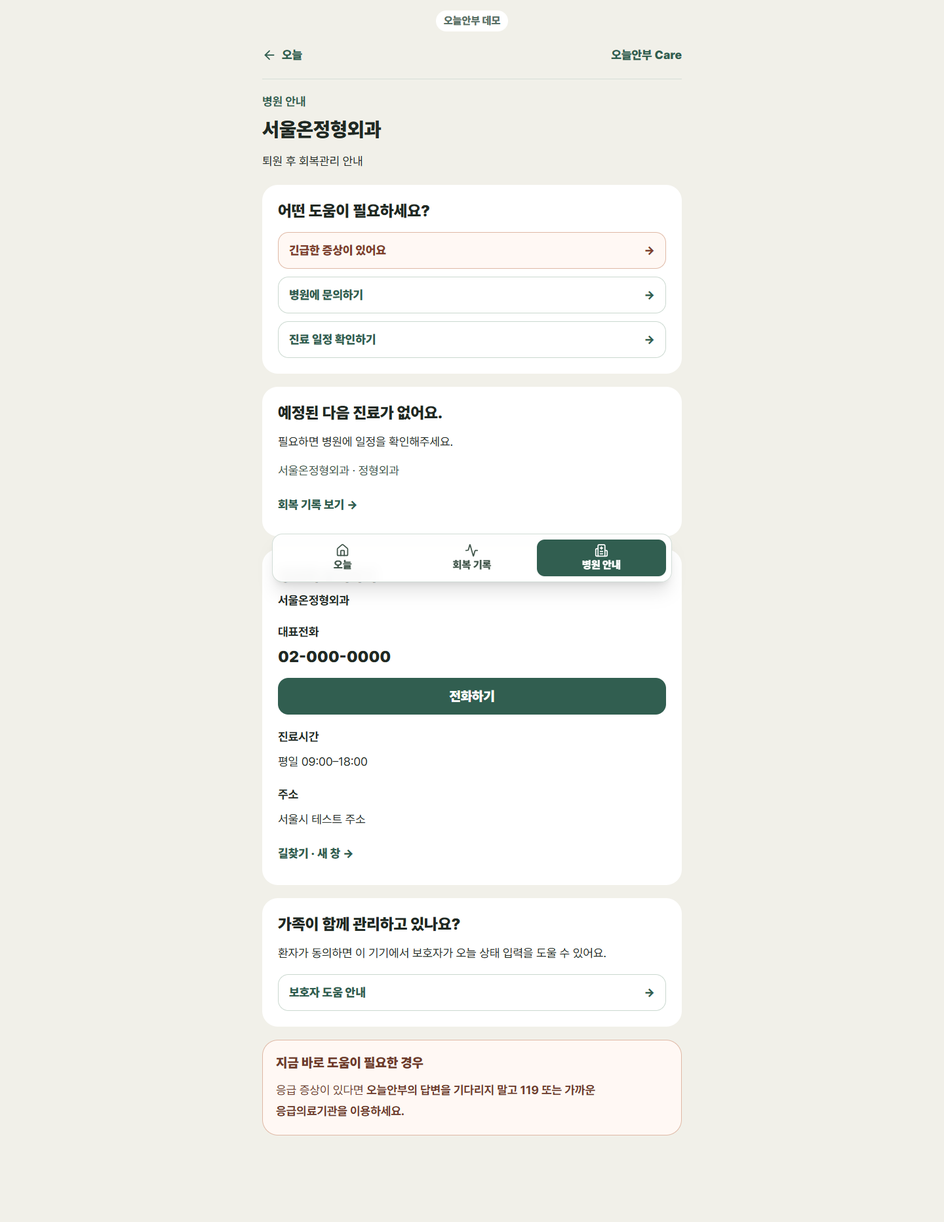
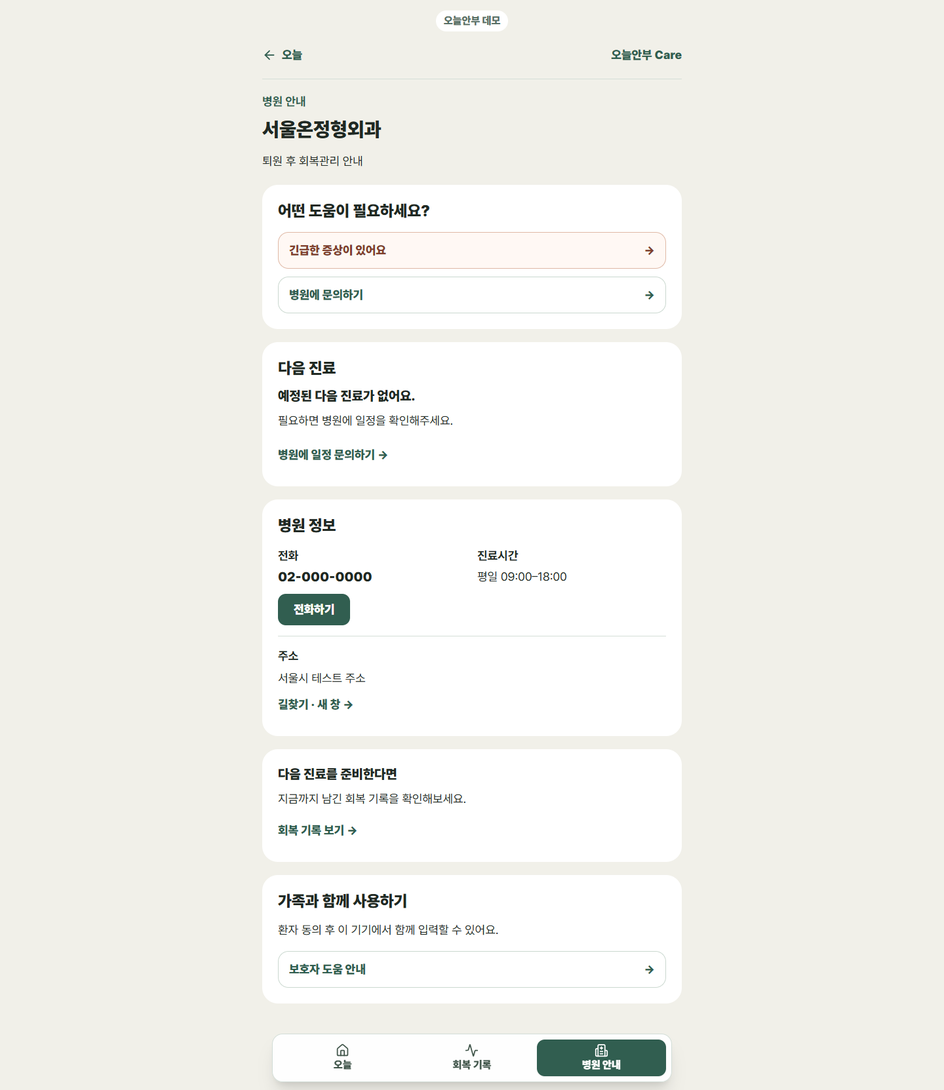
Update Site source

diff --git a/src/components/hospital-mvp.tsx b/src/components/hospital-mvp.tsx
@@ -1,5 +1,6 @@
 "use client";
 import Link from "next/link";
+import {HospitalContactSettings} from "@/components/hospital-contact-settings";
 import {useEffect,useMemo,useState} from "react";
 import {Activity,ArrowLeft,BarChart3,Bell,CalendarClock,Check,CheckCircle2,ChevronRight,ClipboardCheck,HeartPulse,Menu,Search,Settings,ShieldCheck,Stethoscope,UserCog,Users,X} from "lucide-react";
 import {AccessGuard} from "@/components/access-guard";
@@ -35,7 +36,7 @@ function Workspace({session,demo=false}:{session:HospitalSession;demo?:boolean})
  const routeParams=new URLSearchParams();if(view!=="home")routeParams.set("view",view);if(filter!=="all")routeParams.set("status",filter);if(search)routeParams.set("q",search);if(assignment!=="all")routeParams.set("assignment",assignment);if(surgery!=="all")routeParams.set("surgery",surgery);
  const choose=(v:View,f:Filter="all")=>{const q=new URLSearchParams();if(v!=="home")q.set("view",v);if(f!=="all")q.set("status",f);history.pushState(history.state,"",dashboardHref+(q.size?"?"+q:""));setView(v);setFilter(f);setSearch("");setSurgery("all");setAssignment("all");setMobile(false);setGlobalSearch(false);window.scrollTo(0,0)},notify=(m:string)=>{setToast(m);setTimeout(()=>setToast(""),2200)},persist=(s:CareState)=>{setState(s);(demo?savePublicDemoCareState:saveCareState)(s)},items=nav[activeRole]||nav.nurse,label=items.find(x=>x.id===view)?.label||"병원 홈",returnTo=encodeURIComponent(dashboardHref+(routeParams.size?"?"+routeParams:""));
 
- return <main className="min-h-screen bg-[#F4F6F4] text-[#18251F] lg:flex"><aside className={`${mobile?"fixed inset-y-0 left-0 z-50 block":"hidden"} w-[264px] shrink-0 bg-[#19372E] p-5 text-white lg:sticky lg:top-0 lg:block lg:h-screen`}><div className="flex justify-between"><button onClick={()=>choose("home")} className="flex min-h-11 items-center gap-2 text-lg font-black"><span className="grid size-9 place-items-center rounded-xl bg-[#4D826F]"><HeartPulse size={20}/></span>오늘안부 Care</button><button aria-label="메뉴 닫기" onClick={()=>setMobile(false)} className="lg:hidden"><X/></button></div><div className="mt-6 border-y border-white/10 py-4"><p className="font-black">서울온정형외과</p><p className="mt-2 text-sm font-bold text-emerald-100">{roles[role].name} · {roles[role].label}</p></div><p className="mb-2 mt-5 px-3 text-[11px] font-black tracking-[.14em] text-white/40">{activeRole==="doctor"?"CLINICAL":activeRole==="nurse"?"CARE":"MANAGEMENT"}</p><nav className="space-y-1">{items.map(item=>{const Icon=item.icon;return <button key={item.id} onClick={()=>choose(item.id,item.id==="followup"?"followup":item.id==="escalations"?"doctor":"all")} aria-current={view===item.id?"page":undefined} className={`flex min-h-12 w-full items-center gap-3 rounded-xl px-3 text-left text-[15px] font-black focus-visible:ring-2 focus-visible:ring-white ${view===item.id?"bg-white text-[#244B3D]":"text-white/75 hover:bg-white/10 hover:text-white"}`}><Icon size={19}/>{item.label}</button>})}</nav>{demo?<button onClick={()=>{setState(resetPublicDemoCareState());notify("데모 데이터를 초기화했습니다.")}} className="absolute bottom-5 left-5 right-5 min-h-11 rounded-xl border border-white/20 text-sm font-bold">데모 데이터 초기화</button>:null}</aside>{mobile?<button aria-label="메뉴 배경 닫기" className="fixed inset-0 z-40 bg-black/30 lg:hidden" onClick={()=>setMobile(false)}/>:null}<div className="min-w-0 flex-1"><header className="sticky top-0 z-30 border-b bg-white/95 px-4 backdrop-blur lg:px-8"><div className="flex min-h-[72px] items-center justify-between gap-2"><div className="flex min-w-0 items-center gap-2"><button aria-label="메뉴 열기" onClick={()=>setMobile(true)} className="grid size-11 place-items-center rounded-xl border lg:hidden"><Menu/></button>{view!=="home"?<button onClick={()=>choose("home")} className="hidden size-11 place-items-center rounded-xl border md:grid" aria-label="이전 화면"><ArrowLeft size={19}/></button>:null}<nav className="truncate text-sm font-bold text-[#607068]"><button onClick={()=>choose("home")}>병원 홈</button>{view!=="home"?<><span className="px-2">›</span><b className="text-[#18251F]">{label}</b></>:null}</nav></div><div className="flex items-center gap-2"><button onClick={()=>setGlobalSearch(v=>!v)} className="grid size-11 place-items-center rounded-xl border" aria-label="통합 검색"><Search size={19}/></button><div className="relative"><button onClick={()=>setNotice(v=>!v)} className="relative grid size-11 place-items-center rounded-xl border" aria-label="알림"><Bell size={19}/><span className="absolute right-2 top-2 size-2 rounded-full bg-[#C65437]"/></button>{notice?<Notices go={f=>{choose("patients",f);setNotice(false)}} close={()=>setNotice(false)}/>:null}</div><select aria-label="역할 전환" value={role} disabled={!demo} title={demo?"데모 역할 체험":"로그인한 계정의 역할입니다. 권한 변경은 관리자에게 요청하세요."} onChange={e=>{const next=e.target.value as HospitalRole;sessionStorage.setItem("care-demo-role",next);setRole(next);choose("home")}} className="h-11 max-w-[140px] rounded-xl border px-2 font-black"><option value="nurse">간호사</option><option value="doctor">의사</option><option value="owner">병원 경영자</option><option value="hospital_admin">병원 관리자</option><option value="coordinator">코디네이터</option><option value="staff">병원 직원</option></select><div className="hidden text-right xl:block"><b>{roles[role].name} · {roles[role].label}</b><p className="text-xs text-[#62756C]">서울온정형외과</p></div></div></div>{globalSearch?<div className="border-t py-3"><label className="mx-auto flex h-12 max-w-3xl items-center gap-3 rounded-xl bg-[#F3F6F4] px-4"><Search size={19}/><input autoFocus value={search} onChange={e=>{setSearch(e.target.value);setView("patients")}} placeholder="환자명, 내부 ID, 담당자, 수술 종류 검색" className="w-full bg-transparent outline-none"/><button aria-label="닫기" onClick={()=>setGlobalSearch(false)}><X size={18}/></button></label>{search?<div className="mx-auto mt-2 max-w-3xl rounded-xl border bg-white p-2 shadow-lg">{visible.slice(0,4).map(p=><PatientLink key={p.id} p={p} demo={demo} returnTo={returnTo}/>)}</div>:null}</div>:null}</header><div className="mx-auto max-w-[1460px] p-4 pb-24 lg:p-8">{view==="reports"||view==="performance"?<CareReports state={state} hospitalId={session.hospitalId} demo={demo} returnTo={returnTo}/>:view==="patients"&&(activeRole==="owner"||activeRole==="hospital_admin")?<Intro eyebrow="병원 환자목록" title="환자관리" text="검색과 필터로 대상 환자를 확인하세요."/>:activeRole==="owner"||activeRole==="hospital_admin"?<Management role={activeRole} view={view} choose={choose} state={state} patients={patients} hospitalId={session.hospitalId}/>:activeRole==="doctor"?<Doctor state={state} patients={patients} view={view} flow={flow} persist={persist} notify={notify} demo={demo} returnTo={returnTo}/>:<Nurse filter={filter} state={state} patients={patients} visible={visible} view={view} counts={counts} flow={flow} choose={choose} notify={notify} demo={demo} done={done} setDone={setDone} returnTo={returnTo}/>} {(["patients","tasks","followup","escalations","completed"].includes(view))?<><Filters search={search} setSearch={setSearch} surgery={surgery} setSurgery={setSurgery} assignment={assignment} setAssignment={setAssignment} filter={filter} setFilter={setFilter}/><Queue state={state} patients={visible} flow={flow} demo={demo} canAct={hasHospitalPermission(role,"CREATE_CARE_ACTION")} role={activeRole==="doctor"?"doctor":"nurse"} returnTo={returnTo}/></>:null}</div></div>{toast?<div role="status" className="fixed bottom-6 left-1/2 z-[60] -translate-x-1/2 rounded-xl bg-[#172D26] px-5 py-3 font-black text-white">{toast}</div>:null}</main>
+ return <main className="min-h-screen bg-[#F4F6F4] text-[#18251F] lg:flex"><aside className={`${mobile?"fixed inset-y-0 left-0 z-50 block":"hidden"} w-[264px] shrink-0 bg-[#19372E] p-5 text-white lg:sticky lg:top-0 lg:block lg:h-screen`}><div className="flex justify-between"><button onClick={()=>choose("home")} className="flex min-h-11 items-center gap-2 text-lg font-black"><span className="grid size-9 place-items-center rounded-xl bg-[#4D826F]"><HeartPulse size={20}/></span>오늘안부 Care</button><button aria-label="메뉴 닫기" onClick={()=>setMobile(false)} className="lg:hidden"><X/></button></div><div className="mt-6 border-y border-white/10 py-4"><p className="font-black">서울온정형외과</p><p className="mt-2 text-sm font-bold text-emerald-100">{roles[role].name} · {roles[role].label}</p></div><p className="mb-2 mt-5 px-3 text-[11px] font-black tracking-[.14em] text-white/40">{activeRole==="doctor"?"CLINICAL":activeRole==="nurse"?"CARE":"MANAGEMENT"}</p><nav className="space-y-1">{items.map(item=>{const Icon=item.icon;return <button key={item.id} onClick={()=>choose(item.id,item.id==="followup"?"followup":item.id==="escalations"?"doctor":"all")} aria-current={view===item.id?"page":undefined} className={`flex min-h-12 w-full items-center gap-3 rounded-xl px-3 text-left text-[15px] font-black focus-visible:ring-2 focus-visible:ring-white ${view===item.id?"bg-white text-[#244B3D]":"text-white/75 hover:bg-white/10 hover:text-white"}`}><Icon size={19}/>{item.label}</button>})}</nav>{demo?<button onClick={()=>{setState(resetPublicDemoCareState());notify("데모 데이터를 초기화했습니다.")}} className="absolute bottom-5 left-5 right-5 min-h-11 rounded-xl border border-white/20 text-sm font-bold">데모 데이터 초기화</button>:null}</aside>{mobile?<button aria-label="메뉴 배경 닫기" className="fixed inset-0 z-40 bg-black/30 lg:hidden" onClick={()=>setMobile(false)}/>:null}<div className="min-w-0 flex-1"><header className="sticky top-0 z-30 border-b bg-white/95 px-4 backdrop-blur lg:px-8"><div className="flex min-h-[72px] items-center justify-between gap-2"><div className="flex min-w-0 items-center gap-2"><button aria-label="메뉴 열기" onClick={()=>setMobile(true)} className="grid size-11 place-items-center rounded-xl border lg:hidden"><Menu/></button>{view!=="home"?<button onClick={()=>choose("home")} className="hidden size-11 place-items-center rounded-xl border md:grid" aria-label="이전 화면"><ArrowLeft size={19}/></button>:null}<nav className="truncate text-sm font-bold text-[#607068]"><button onClick={()=>choose("home")}>병원 홈</button>{view!=="home"?<><span className="px-2">›</span><b className="text-[#18251F]">{label}</b></>:null}</nav></div><div className="flex items-center gap-2"><button onClick={()=>setGlobalSearch(v=>!v)} className="grid size-11 place-items-center rounded-xl border" aria-label="통합 검색"><Search size={19}/></button><div className="relative"><button onClick={()=>setNotice(v=>!v)} className="relative grid size-11 place-items-center rounded-xl border" aria-label="알림"><Bell size={19}/><span className="absolute right-2 top-2 size-2 rounded-full bg-[#C65437]"/></button>{notice?<Notices go={f=>{choose("patients",f);setNotice(false)}} close={()=>setNotice(false)}/>:null}</div><select aria-label="역할 전환" value={role} disabled={!demo} title={demo?"데모 역할 체험":"로그인한 계정의 역할입니다. 권한 변경은 관리자에게 요청하세요."} onChange={e=>{const next=e.target.value as HospitalRole;sessionStorage.setItem("care-demo-role",next);setRole(next);choose("home")}} className="h-11 max-w-[140px] rounded-xl border px-2 font-black"><option value="nurse">간호사</option><option value="doctor">의사</option><option value="owner">병원 경영자</option><option value="hospital_admin">병원 관리자</option><option value="coordinator">코디네이터</option><option value="staff">병원 직원</option></select><div className="hidden text-right xl:block"><b>{roles[role].name} · {roles[role].label}</b><p className="text-xs text-[#62756C]">서울온정형외과</p></div></div></div>{globalSearch?<div className="border-t py-3"><label className="mx-auto flex h-12 max-w-3xl items-center gap-3 rounded-xl bg-[#F3F6F4] px-4"><Search size={19}/><input autoFocus value={search} onChange={e=>{setSearch(e.target.value);setView("patients")}} placeholder="환자명, 내부 ID, 담당자, 수술 종류 검색" className="w-full bg-transparent outline-none"/><button aria-label="닫기" onClick={()=>setGlobalSearch(false)}><X size={18}/></button></label>{search?<div className="mx-auto mt-2 max-w-3xl rounded-xl border bg-white p-2 shadow-lg">{visible.slice(0,4).map(p=><PatientLink key={p.id} p={p} demo={demo} returnTo={returnTo}/>)}</div>:null}</div>:null}</header><div className="mx-auto max-w-[1460px] p-4 pb-24 lg:p-8">{view==="settings"&&(activeRole==="owner"||activeRole==="hospital_admin")?<HospitalContactSettings state={state} hospitalId={session.hospitalId} demo={demo} onSaved={setState}/>:view==="reports"||view==="performance"?<CareReports state={state} hospitalId={session.hospitalId} demo={demo} returnTo={returnTo}/>:view==="patients"&&(activeRole==="owner"||activeRole==="hospital_admin")?<Intro eyebrow="병원 환자목록" title="환자관리" text="검색과 필터로 대상 환자를 확인하세요."/>:activeRole==="owner"||activeRole==="hospital_admin"?<Management role={activeRole} view={view} choose={choose} state={state} patients={patients} hospitalId={session.hospitalId}/>:activeRole==="doctor"?<Doctor state={state} patients={patients} view={view} flow={flow} persist={persist} notify={notify} demo={demo} returnTo={returnTo}/>:<Nurse filter={filter} state={state} patients={patients} visible={visible} view={view} counts={counts} flow={flow} choose={choose} notify={notify} demo={demo} done={done} setDone={setDone} returnTo={returnTo}/>} {(["patients","tasks","followup","escalations","completed"].includes(view))?<><Filters search={search} setSearch={setSearch} surgery={surgery} setSurgery={setSurgery} assignment={assignment} setAssignment={setAssignment} filter={filter} setFilter={setFilter}/><Queue state={state} patients={visible} flow={flow} demo={demo} canAct={hasHospitalPermission(role,"CREATE_CARE_ACTION")} role={activeRole==="doctor"?"doctor":"nurse"} returnTo={returnTo}/></>:null}</div></div>{toast?<div role="status" className="fixed bottom-6 left-1/2 z-[60] -translate-x-1/2 rounded-xl bg-[#172D26] px-5 py-3 font-black text-white">{toast}</div>:null}</main>
 }
 
 function Nurse({filter,state,patients,visible,view,counts,flow,choose,notify,demo,done,setDone,returnTo}:{filter:Filter;state:CareState;patients:Patient[];visible:Patient[];view:View;counts:{attention:number;noResponse:number;doctor:number};flow:(p:Patient)=>Workflow;choose:(v:View,f?:Filter)=>void;notify:(x:string)=>void;demo:boolean;done:string[];setDone:(x:string[])=>void;returnTo:string}){

diff --git a/src/components/patient-hospital-guide.tsx b/src/components/patient-hospital-guide.tsx
@@ -5,10 +5,11 @@ import { patientAppointment } from "@/lib/patient-appointment";
 import type { Hospital, Patient } from "@/lib/care-mvp";
 
 export function PatientHospitalGuide({hospital,patient}:{hospital?:Hospital;patient:Patient}) {
-  const nav=usePatientNavigation(),[now,setNow]=useState(()=>new Date()),[urgent,setUrgent]=useState(false),[family,setFamily]=useState(false),[consent,setConsent]=useState(false);
+  const nav=usePatientNavigation(),[now,setNow]=useState(()=>new Date()),[urgent,setUrgent]=useState(false),[family,setFamily]=useState(false),[consent,setConsent]=useState(false),[past,setPast]=useState(false),[help,setHelp]=useState(false),[demoAction,setDemoAction]=useState("");
   useEffect(()=>{const refresh=()=>setNow(new Date());const timer=window.setInterval(refresh,60000);window.addEventListener("focus",refresh);return()=>{clearInterval(timer);window.removeEventListener("focus",refresh);};},[]);
   const appointment=patientAppointment(patient.nextAppointment,now);
-  const phone=hospital?.phone?.trim(), dial=phone?.replace(/[\s().-]/g,"");
+  const mock=nav.demo && !hospital?.phone;
+  const phone=mock?"02-000-0000":hospital?.phone?.trim(), hours=mock?"평일 09:00–18:00":hospital?.openingHours, address=mock?"서울 ○○구 ○○로 00":hospital?.address, dial=phone?.replace(/[\s().-]/g,"");
   const callable=!!dial && /^\+?\d{7,15}$/.test(dial);
   const card="rounded-3xl bg-white p-6", action="flex min-h-14 items-center justify-between rounded-2xl border border-[#CAD8CF] px-4 text-lg font-black text-[#315E50]";
   return <div className="space-y-5 py-5">
@@ -17,23 +18,26 @@ export function PatientHospitalGuide({hospital,patient}:{hospital?:Hospital;pati
       <button className={action+" border-[#DFB8A5] bg-[#FFF8F4] text-[#803F2D]"} aria-expanded={urgent} aria-controls="urgent-detail" onClick={()=>setUrgent(v=>!v)}>긴급한 증상이 있어요 <span aria-hidden>→</span></button>
       {urgent ? <div id="urgent-detail" className="rounded-2xl bg-[#FFF8F4] p-5 text-lg leading-8"><h3 className="text-xl font-black">갑자기 이런 증상이 있나요?</h3><ul className="mt-3 list-disc pl-5"><li>갑작스럽게 심해진 통증</li><li>호흡곤란</li><li>의식 변화</li><li>지속적인 출혈</li></ul><p className="mt-4 font-bold">응급 증상이 있다면 오늘안부의 답변을 기다리지 말고 119 또는 가까운 응급의료기관을 이용하세요.</p><a href="tel:119" className="mt-4 flex min-h-14 items-center justify-center rounded-xl border-2 border-[#803F2D] font-black text-[#803F2D]">119 전화하기</a></div> : null}
       <a href="#hospital-contact" className={action}>병원에 문의하기 <span aria-hidden>→</span></a>
-      <a href="#patient-appointment" className={action}>진료 일정 확인하기 <span aria-hidden>→</span></a>
+      
     </div></section>
     <section id="patient-appointment" className={card+" scroll-mt-5"} aria-labelledby="appointment-title">
-      <h2 id="appointment-title" className="text-2xl font-black">{appointment.state==="today" ? "오늘 진료가 있어요" : appointment.state==="upcoming" ? "다음 진료" : "예정된 다음 진료가 없어요."}</h2>
-      {appointment.state==="today"||appointment.state==="upcoming" ? <><p className="mt-4 text-xl font-black leading-8">{appointment.label}</p>{appointment.state==="upcoming" ? <p className="mt-2 text-lg font-black text-[#315E50]">D-{appointment.days}</p> : null}</> : <><p className="mt-3 text-lg leading-8">필요하면 병원에 일정을 확인해주세요.</p>{appointment.state==="past" ? <p className="mt-4 border-t border-[#D5DED7] pt-4 text-lg leading-8"><strong>지난 진료</strong><br/>{appointment.label}</p> : null}</>}
-      <p className="mt-3 text-lg leading-8 text-[#40554A]">{hospital?.name || "연결된 병원"}{patient.department ? ` · ${patient.department}` : ""}</p>
-      <PatientLink href={nav.href("history")} className="mt-3 inline-flex min-h-12 items-center text-lg font-black text-[#315E50]">{appointment.state==="today"||appointment.state==="upcoming" ? "진료 전 회복 기록 보기 →" : "회복 기록 보기 →"}</PatientLink>
+      <h2 id="appointment-title" className="text-2xl font-black">다음 진료</h2>
+      {appointment.state==="today"||appointment.state==="upcoming" ? <><p className="mt-3 text-xl font-black">{appointment.state==="today"?"오늘 진료가 있어요":`D-${appointment.days}`}</p><p className="mt-2 text-lg leading-8">{appointment.label}</p><p className="mt-2 text-lg">{hospital?.name} · {patient.department || "진료과 확인 필요"}</p></> : <><h3 className="mt-3 text-xl font-black">예정된 다음 진료가 없어요.</h3><p className="mt-2 text-lg leading-8">필요하면 병원에 일정을 확인해주세요.</p></>}
+      <a href="#hospital-contact" className="mt-3 inline-flex min-h-12 items-center text-lg font-black text-[#315E50]">병원에 일정 문의하기 →</a>
+      {appointment.state==="past" ? <div className="mt-3 border-t border-[#D5DED7] pt-2"><button aria-expanded={past} aria-controls="past-appointment" onClick={()=>setPast(v=>!v)} className="min-h-12 text-lg font-bold text-[#40554A]">지난 진료 {past?"접기":"보기"}</button>{past?<p id="past-appointment" className="text-lg leading-8">{appointment.label}<br/>{hospital?.name} · {patient.department || "진료과 확인 필요"}</p>:null}</div>:null}
     </section>
-    <section id="hospital-contact" className={card+" scroll-mt-5"}><h2 className="text-2xl font-black">병원에 문의하기</h2><p className="mt-2 text-lg font-bold">{hospital?.name || "연결된 병원"}</p>
-      <dl className="mt-5 space-y-5"><div><dt className="text-lg font-bold">대표전화</dt><dd className="mt-2 break-words text-2xl font-black">{phone || "등록된 전화번호가 없어요."}</dd></div></dl>
-      {callable ? <a href={`tel:${dial}`} className="mt-4 flex min-h-14 items-center justify-center rounded-2xl bg-[#315E50] text-xl font-black text-white">전화하기</a> : <p className="mt-3 text-lg leading-8">퇴원 안내문이나 병원에서 받은 문자에 적힌 연락처를 확인해주세요.</p>}
-      <dl className="mt-5 space-y-5"><div><dt className="text-lg font-bold">진료시간</dt><dd className="mt-2 text-lg leading-8 whitespace-pre-line">{hospital?.openingHours || "등록된 진료시간이 없어요. 병원에 확인해주세요."}</dd></div><div><dt className="text-lg font-bold">주소</dt><dd className="mt-2 text-lg leading-8">{hospital?.address || "등록된 주소가 없어요. 병원에 위치를 확인해주세요."}</dd></div></dl>
-      {hospital?.address ? <a href={`https://www.google.com/maps/dir/?api=1&destination=${encodeURIComponent(hospital.address)}`} target="_blank" rel="noopener noreferrer" className="mt-3 inline-flex min-h-12 items-center text-lg font-black text-[#315E50]">길찾기 · 새 창 →</a> : null}
+    <section id="hospital-contact" className={card+" scroll-mt-5"}><h2 className="text-2xl font-black">병원 정보</h2>
+      {mock?<p className="mt-2 rounded-xl bg-[#E8F1EA] p-3 text-base font-bold">데모용 예시 정보 · 실제 병원 연락처가 아닙니다.</p>:null}
+      <dl className="mt-4 grid gap-4 sm:grid-cols-2"><div><dt className="text-lg font-bold">전화</dt><dd className="mt-1 text-xl font-black">{phone || "전화번호 정보 없음"}</dd></div><div><dt className="text-lg font-bold">진료시간</dt><dd className="mt-1 text-lg whitespace-pre-line">{hours || "진료시간 정보 없음"}</dd></div></dl>
+      {mock?<button onClick={()=>setDemoAction("전화 연결 미리보기예요. 실제 서비스에서는 등록된 병원 번호로 전화 앱이 열립니다.")} className="mt-3 min-h-12 rounded-xl bg-[#315E50] px-6 text-lg font-black text-white">전화하기</button>:callable?<a href={`tel:${dial}`} className="mt-3 inline-flex min-h-12 items-center rounded-xl bg-[#315E50] px-6 text-lg font-black text-white">전화하기</a>:<button onClick={()=>setHelp(v=>!v)} aria-expanded={help} className="mt-3 min-h-12 text-lg font-black text-[#315E50]">병원 연락처 찾는 방법 →</button>}
+      {help?<div className="mt-3 rounded-xl bg-[#F1F0E9] p-4 text-lg leading-8"><p>문자나 카카오톡에서 병원 이름을 검색해 받은 안내의 전화번호를 확인해주세요. 퇴원 안내문에서도 찾을 수 있어요.</p><a href={`https://www.google.com/search?q=${encodeURIComponent((hospital?.name||"")+" 공식 홈페이지 전화번호")}`} target="_blank" rel="noopener noreferrer" className="mt-2 inline-flex min-h-12 items-center font-bold text-[#315E50]">병원 공식 연락처 검색 · 새 창 →</a><p className="text-base">동명이 있는 병원은 주소를 함께 확인해주세요.</p></div>:null}
+      <dl className="mt-4 border-t border-[#D5DED7] pt-4"><dt className="text-lg font-bold">주소</dt><dd className="mt-1 text-lg leading-8">{address || "주소 정보 없음"}</dd></dl>
+      {mock?<button onClick={()=>setDemoAction("길찾기 미리보기예요. 실제 서비스에서는 등록된 병원 주소로 지도가 열립니다.")} className="min-h-12 text-lg font-black text-[#315E50]">길찾기 →</button>:address?<a href={`https://www.google.com/maps/dir/?api=1&destination=${encodeURIComponent(address)}`} target="_blank" rel="noopener noreferrer" className="inline-flex min-h-12 items-center text-lg font-black text-[#315E50]">길찾기 · 새 창 →</a>:null}
+      {demoAction?<p role="status" className="mt-3 rounded-xl bg-[#E8F1EA] p-3 text-lg leading-7">{demoAction}</p>:null}
     </section>
-    <section className={card}><h2 className="text-2xl font-black">가족이 함께 관리하고 있나요?</h2><p className="mt-3 text-lg leading-8">환자가 동의하면 이 기기에서 보호자가 오늘 상태 입력을 도울 수 있어요.</p><button className={action+" mt-4 w-full"} aria-expanded={family} onClick={()=>setFamily(v=>!v)}>보호자 도움 안내 <span aria-hidden>→</span></button>
+    <section className={card}><h2 className="text-xl font-black">다음 진료를 준비한다면</h2><p className="mt-2 text-lg leading-8">지금까지 남긴 회복 기록을 확인해보세요.</p><PatientLink href={nav.href("history")} className="mt-2 inline-flex min-h-12 items-center text-lg font-black text-[#315E50]">회복 기록 보기 →</PatientLink></section>
+    <section className={card}><h2 className="text-2xl font-black">가족과 함께 사용하기</h2><p className="mt-3 text-lg leading-8">환자 동의 후 이 기기에서 함께 입력할 수 있어요.</p><button className={action+" mt-4 w-full"} aria-expanded={family} onClick={()=>setFamily(v=>!v)}>보호자 도움 안내 <span aria-hidden>→</span></button>
       {family ? <div className="mt-4 space-y-3 text-lg leading-8"><p>보호자는 환자 이름과 회복 기록을 볼 수 있고, 오늘 상태를 대신 입력할 수 있어요. 입력 내용은 보호자 대리 기록으로 저장돼요.</p><p>현재는 환자가 연결된 기기에서 함께 사용하는 기능이에요. 별도 보호자 전용 링크 발송과 연결 해제 기능은 아직 지원하지 않아요.</p><p>공용 기기에서는 사용을 피해주세요. 환자 동의 없이 화면이나 초대 링크를 공유하지 마세요.</p><label className="flex min-h-14 items-start gap-3 rounded-xl bg-[#F1F0E9] p-4"><input type="checkbox" checked={consent} onChange={e=>setConsent(e.target.checked)} className="mt-2 size-5 shrink-0"/>환자가 정보 확인과 보호자의 대리 입력에 동의했어요.</label>{consent ? <PatientLink href={nav.href("checkin",{proxy:"guardian"})} className={action}>이 기기에서 함께 입력하기 →</PatientLink> : null}</div> : null}
     </section>
-    <aside className="rounded-3xl border border-[#DFB8A5] bg-[#FFF8F4] p-5 text-[#6E3B2B]"><h2 className="text-xl font-black">지금 바로 도움이 필요한 경우</h2><p className="mt-3 text-lg leading-8">응급 증상이 있다면 <strong>오늘안부의 답변을 기다리지 말고 119 또는 가까운 응급의료기관을 이용하세요.</strong></p></aside>
   </div>;
 }

diff --git a/src/components/hospital-contact-settings.tsx b/src/components/hospital-contact-settings.tsx
@@ -1,0 +1,9 @@
+"use client";
+import {useState} from "react";
+import {getHospitalSession} from "@/lib/demo-auth";
+import {loadCareState,loadPublicDemoCareState,saveCareState,savePublicDemoCareState,type CareState} from "@/lib/care-mvp";
+export function HospitalContactSettings({state,hospitalId,demo,onSaved}:{state:CareState;hospitalId:string;demo:boolean;onSaved:(state:CareState)=>void}){
+ const hospital=state.hospitals.find(h=>h.id===hospitalId),[phone,setPhone]=useState(hospital?.phone||""),[hours,setHours]=useState(hospital?.openingHours||""),[address,setAddress]=useState(hospital?.address||""),[message,setMessage]=useState("");
+ return <section className="max-w-2xl rounded-3xl bg-white p-6"><h1 className="text-2xl font-black">병원 연락 정보</h1><p className="mt-3 leading-7">환자가 바로 연락할 수 있도록 대표전화·진료시간·주소를 모두 등록해주세요. 저장한 정보는 환자 병원 안내에 표시됩니다.</p><form className="mt-5 space-y-4" onSubmit={e=>{e.preventDefault();try{const session=getHospitalSession();if(!demo&&(!session||session.hospitalId!==hospitalId||!["owner","hospital_admin"].includes(session.role)))throw Error();if(!/^\+?\d{7,15}$/.test(phone.replace(/[\s().-]/g,""))){setMessage("연락 가능한 전화번호를 입력해주세요.");return;}const latest=demo?loadPublicDemoCareState():loadCareState();const next={...latest,hospitals:latest.hospitals.map(h=>h.id===hospitalId?{...h,phone:phone.trim(),openingHours:hours.trim(),address:address.trim()}:h)};(demo?savePublicDemoCareState:saveCareState)(next);onSaved(next);setMessage("병원 연락 정보를 저장했어요.");}catch{setMessage("저장하지 못했어요. 관리자 연결과 저장 설정을 확인해주세요.");}}}>
+ {[["대표전화",phone,setPhone],["진료시간",hours,setHours],["주소",address,setAddress]].map(([label,value,setter])=><label key={String(label)} className="block font-bold">{String(label)}<input required value={String(value)} onChange={e=>(setter as (v:string)=>void)(e.target.value)} className="mt-2 min-h-12 w-full rounded-xl border p-3" maxLength={200}/></label>)}<button className="min-h-12 rounded-xl bg-[#315E50] px-6 font-bold text-white">연락 정보 저장</button><p role="status">{message}</p></form></section>;
+}

diff --git a/src/components/patient-care-mvp.tsx b/src/components/patient-care-mvp.tsx
@@ -314,7 +314,7 @@ function AdaptiveCheckin({ patient, todayCheck, history, guardianMode, demo, edi
 
 function PatientShell({ children, demo, active = "home", backLabel, backFallback, onBack, hideNav = false, careStage = "activeCare" }: { children: React.ReactNode; demo: boolean; active?: "home" | "history" | "hospital"; backLabel?: string; backFallback?: string; onBack?:()=>void; hideNav?:boolean; careStage?:CareStage }) {
   return (
-    <main className="min-h-[100dvh] bg-[#F1F0E9] px-5 pb-28 text-[#202923] [font-size:18px]">
+    <main className="min-h-[100dvh] bg-[#F1F0E9] px-5 pb-[calc(7rem+env(safe-area-inset-bottom))] text-[#202923] [font-size:18px]">
       <div className="mx-auto max-w-[640px]">{demo ? <div className="pt-4 text-center"><span className="inline-flex rounded-full bg-white px-3 py-1 text-base font-black text-[#587066]">오늘안부 데모</span></div> : null}{backLabel ? <header className="flex items-center justify-between border-b border-[#D5DED7] py-3"><PatientBack label={backLabel === "오늘" && careStage === "completedCare" ? "홈" : backLabel} fallback={backFallback} onBack={onBack}/><span className="text-lg font-black text-[#315E50]">오늘안부 Care</span></header> : null}{children}</div>{!hideNav ? <PatientBottomNav demo={demo} current={active} careStage={careStage}/> : null}
     </main>
   );

diff --git a/qa/patient-hospital-review.md b/qa/patient-hospital-review.md
@@ -1,5 +1,12 @@
 # Patient hospital guide QA
 
+## Compact-detail follow-up
+Urgent symptoms and previous appointment details default collapsed. Removed the duplicated expanded emergency footer. Appointment, hospital contact, visit preparation and family help are separate sections. Desktop contact fields use two columns within the existing 640px shell; bottom padding now includes safe-area in addition to navigation clearance.
+
+Demo missing-contact fixtures are explicitly labeled examples; mock telephone/map buttons simulate the action without dialing fictitious numbers. Real missing telephone information offers expandable contact-finding steps and an official-contact search link. Owner/admin hospital settings now require telephone, opening hours and address; persistence is guarded by the existing hospital session and uses the existing storage architecture.
+
+Added desktop/mobile checks for accordion toggles, mock action feedback, real missing-phone recovery, manager settings persistence through to patient contact, 640px desktop width and last-card/navigation non-overlap at page end. Existing patient journeys remain passing. No telephone calls were placed by QA.
+
 - Hospital-first header; separate urgent expansion, contact anchor and appointment anchor.
 - Seoul-calendar appointment states: upcoming, today, past and noAppointment. Past dates cannot be labeled next appointment; date-only values do not invent a time. Upcoming/today connect to recovery history.
 - Optional registered Hospital.phone/openingHours/address fields render contact details, sanitized tel links and encoded map directions. Missing contact data retains honest fallback guidance. No invented contact information was added to production fixtures.
